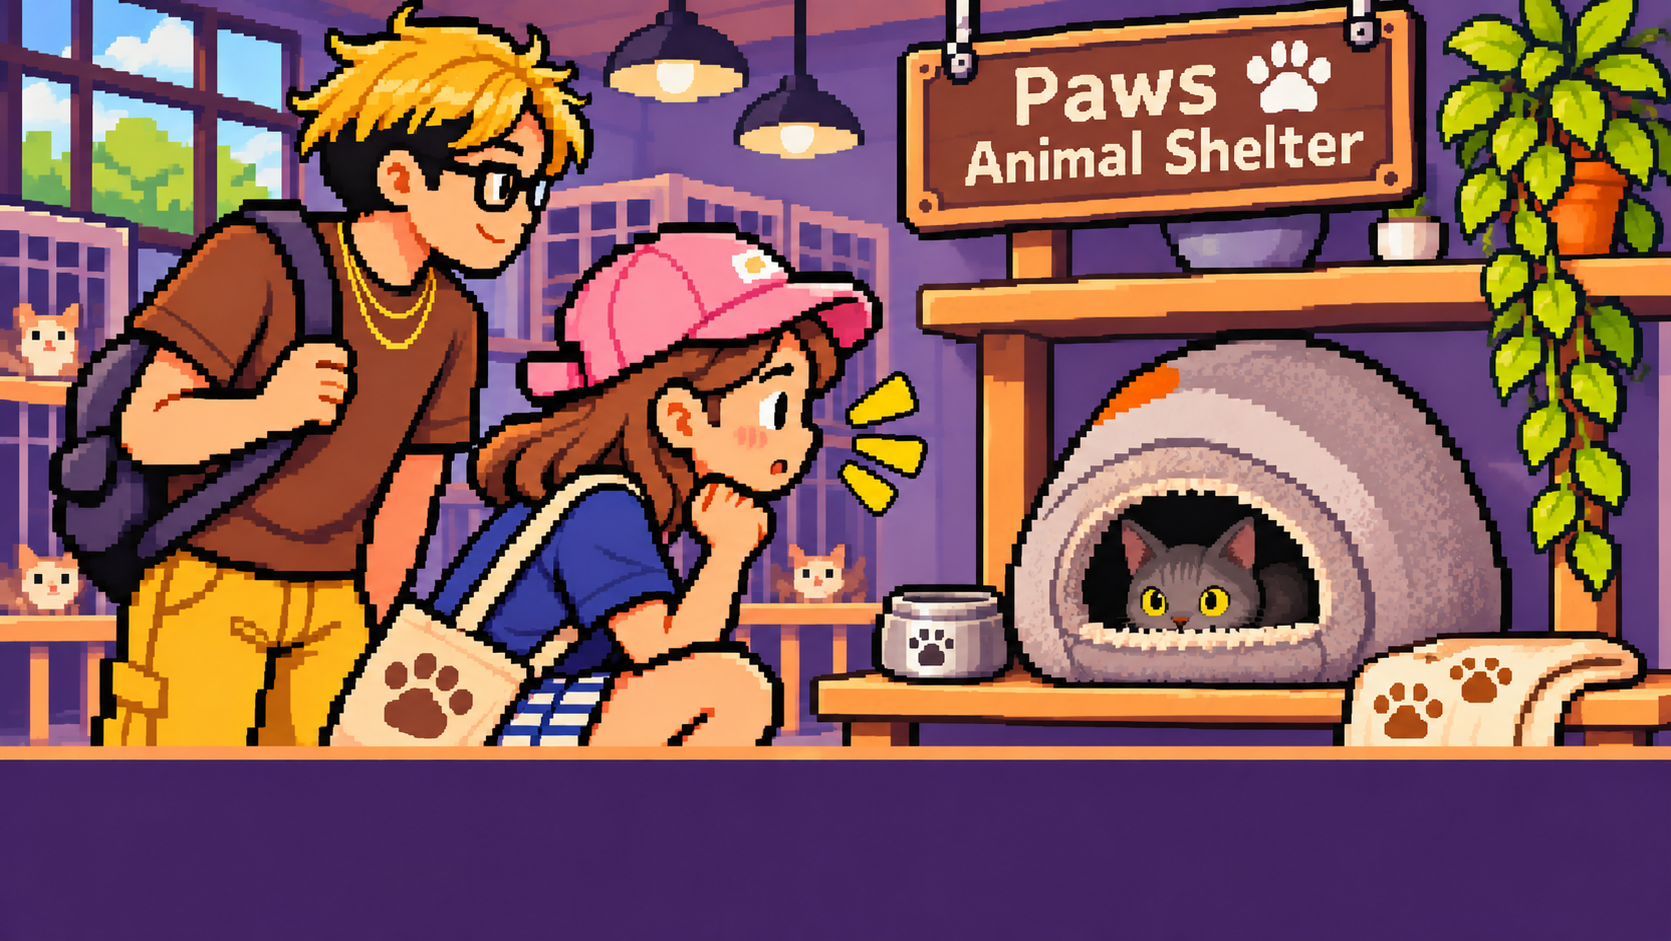
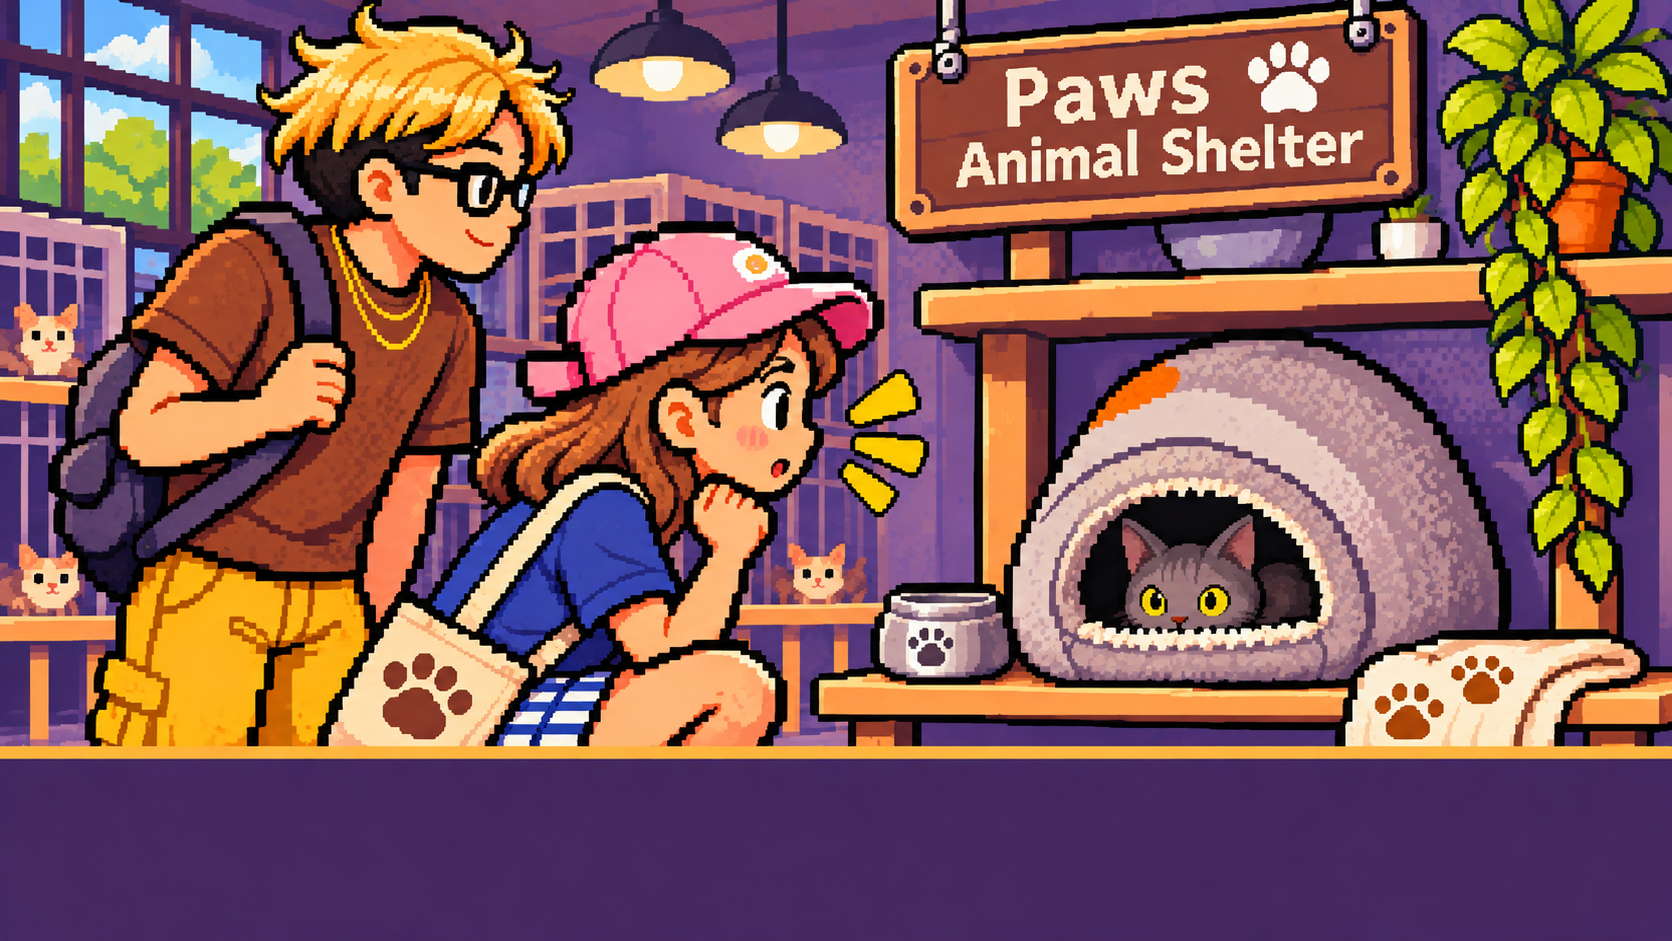
update

Changed region(s): [[0.0, 0.0, 1.0, 0.8321], [0.1556, 0.5547, 0.2178, 0.5855], [0.778, 0.4315, 0.8091, 0.4623]]

diff --git a/app.js b/app.js
@@ -220,10 +220,12 @@
       `<polygon class="hex-shape" points="${shape}"/>${labels}</svg>`;
   }
   (CFG.characters || []).forEach((c, i) => {
-    const card = document.createElement("button");
-    card.type = "button";
+    // (a clickable box rather than a <button>, so the Instagram link can sit inside it)
+    const card = document.createElement("div");
     card.className = "char panel parchment";
+    card.setAttribute("role", "button"); card.tabIndex = 0;
     card.setAttribute("aria-pressed", "false");
+    const ig = String(c.ig || "").trim().replace(/^@/, "").replace(/^https?:\/\/(www\.)?instagram\.com\//i, "").replace(/\/.*$/, "");
     const stars = (n) => `<span class="stars" aria-label="${n} out of 5">${"★".repeat(n)}<i>${"★".repeat(5 - n)}</i></span>`;
     card.innerHTML = `
       <span class="char-tag">${esc(c.tag || "P" + (i + 1))}</span>
@@ -237,13 +239,19 @@
       <dl class="char-info">
         <dt>Origin</dt><dd>${esc(c.origin)}</dd>
         <dt>personality</dt><dd>${esc(c.skill)}</dd>
+        ${ig ? `<dt>IG</dt><dd><a class="char-ig" href="https://www.instagram.com/${encodeURIComponent(ig)}/" target="_blank" rel="noopener" data-no-i18n>@${esc(ig).replace(/_/g, "_<wbr>")} ↗</a></dd>` : ""}
       </dl>
       ${Array.isArray(c.stats) ? `<ul class="char-stats">${c.stats.map(([k, n]) => `<li><span>${esc(k)}</span>${stars(n)}</li>`).join("")}</ul>` : hexStats(c.stats)}
       <span class="char-play">▶ See the story as ${esc(c.name)}</span>
       <span class="char-select">♥ TELLING THE STORY ♥</span>`;
-    card.addEventListener("click", () => {
+    card.addEventListener("click", (e) => {
+      if (e.target.closest("a")) return; // the IG link opens Instagram instead
       sfx.select();
       story.view(c.name, true);
+    });
+    card.addEventListener("keydown", (e) => {
+      if (e.target !== card || (e.key !== "Enter" && e.key !== " ")) return;
+      e.preventDefault(); card.click();
     });
     party.appendChild(card);
     if (i === 0 && CFG.characters.length === 2) {
@@ -512,7 +520,7 @@
     });
     window.addEventListener("keydown", (e) => {
       if ($("#screen-story").hidden || !pop.hidden) return;
-      if (e.target !== dlg && e.target.closest && e.target.closest("button, a, input, textarea, select")) return;
+      if (e.target !== dlg && e.target.closest && e.target.closest("button, a, input, textarea, select, [role=button]")) return;
       if (e.key === " " || e.key === "Enter" || e.key === "ArrowRight") { e.preventDefault(); dlg.click(); }
       if (e.key === "ArrowLeft" && !backBtn.hidden) { e.preventDefault(); backBtn.click(); }
     });
@@ -525,43 +533,60 @@
   // sends them back so every visitor sees them. Without it (testing), they're kept in this browser only.
   const notes = (() => {
     const API = CFG.messagesEndpoint || CFG.rsvpEndpoint;
-    const MINE = "notes-mine";
-    let data = null, loading = null;
+    // Everything is read fresh from the Google Sheet each time (no copies kept in the browser).
+    try { localStorage.removeItem("notes-mine"); } catch (e) {} // (an older version kept copies here)
+    let data = null, loading = null, status = API ? "loading" : "offline";
     const subs = [];
     const emit = () => subs.forEach((f) => f(data));
+    const wait = (ms) => new Promise((r) => setTimeout(r, ms));
     function load() {
-      if (loading) return loading;
+      if (loading) return loading; // one request at a time
       loading = (async () => {
-        let d = { messages: [], comments: [] };
-        if (API) {
-          try {
-            const j = await (await fetch(API + (API.includes("?") ? "&" : "?") + "action=notes", { cache: "no-store" })).json();
-            if (j && j.ok) d = { messages: j.messages || [], comments: j.comments || [] };
-          } catch (e) {}
+        try {
+          if (!API) throw Error("offline");
+          const res = await fetch(API + (API.includes("?") ? "&" : "?") + "action=notes&t=" + Date.now(), { cache: "no-store" });
+          const j = await res.json();
+          if (!j || !j.ok) throw Error("bad reply");
+          data = { messages: j.messages || [], comments: j.comments || [] }; status = "ok";
+        } catch (e) {
+          status = API ? "error" : "offline";
+          if (!data) data = { messages: [], comments: [] };
         }
-        // my own posts: always shown to me (in preview mode they live only here; online, until the sheet has them)
-        const keep = API ? 60 * 60 * 1000 : Infinity;
-        const mine = store.get(MINE, []).filter((x) => Date.now() - Date.parse(x.time) < keep);
-        store.set(MINE, mine);
-        for (const x of mine) {
-          const list = x.kind === "comment" ? d.comments : d.messages;
-          if (!list.some((y) => y.id === x.id)) list.push(x);
-        }
-        data = d; emit(); return d;
-      })();
+        emit(); return data;
+      })().finally(() => { loading = null; });
       return loading;
     }
+    // send to the sheet, then read the sheet back: it only counts as sent once it's really there
     async function post(kind, fields) {
-      const x = { kind, id: Date.now().toString(36) + Math.random().toString(36).slice(2, 8), time: new Date().toISOString(), ...fields };
-      if (API) await fetch(API, { method: "POST", mode: "no-cors", headers: { "Content-Type": "text/plain;charset=utf-8" }, body: JSON.stringify(x) });
-      store.set(MINE, [...store.get(MINE, []), x].slice(-100));
-      await load();
-      const list = kind === "comment" ? data.comments : data.messages;
-      if (!list.some((y) => y.id === x.id)) list.push(x);
-      emit();
+      if (!API) throw Error("offline");
+      const x = { kind, id: Date.now().toString(36) + Math.random().toString(36).slice(2, 8), ...fields };
+      await fetch(API, { method: "POST", mode: "no-cors", headers: { "Content-Type": "text/plain;charset=utf-8" }, body: JSON.stringify(x) });
+      if (loading) await loading; // a read that started before the post doesn't count
+      for (const pause of [0, 1500, 3000]) {
+        if (pause) await wait(pause);
+        await load();
+        const list = kind === "comment" ? data.comments : data.messages;
+        if (status === "ok" && list.some((y) => y.id === x.id)) return;
+      }
+      throw Error("not confirmed");
     }
     const locale = () => ({ "zh-Hant": "zh-TW", "zh-Hans": "zh-CN" }[window.I18N && I18N.lang] || "en-US");
     const date = (iso) => { const d = new Date(iso); return isNaN(d) ? "" : d.toLocaleDateString(locale(), { year: "numeric", month: "short", day: "numeric" }); };
+    // pop-up while a message / comment is being sent: "Sending…" until it's done, then "Sent! ✨"
+    const sending = (() => {
+      const el = document.createElement("div");
+      el.className = "send-pop"; el.hidden = true;
+      el.setAttribute("role", "status"); el.setAttribute("aria-live", "polite");
+      el.innerHTML = `<div class="send-box parchment"><div class="send-icon"></div><p class="send-msg"></p></div>`;
+      document.body.appendChild(el);
+      return {
+        show(msg, icon, busy = false) {
+          $(".send-icon", el).textContent = icon; $(".send-msg", el).textContent = msg;
+          el.classList.toggle("busy", busy); el.hidden = false;
+        },
+        hide() { el.hidden = true; },
+      };
+    })();
     // the name + message form (board and photo comments share it)
     let last = 0;
     function wire(form, kind, extra, max) {
@@ -575,17 +600,25 @@
         err.textContent = !name ? "Please enter your name." : !text ? "Please write a message." : Date.now() - last < 15000 ? "Slow down a little — try again in a few seconds!" : "";
         if (err.textContent) { sfx.error(); return; }
         btn.disabled = true;
+        sending.show("Sending…", "🕊", true);
+        const shown = Date.now();
         try {
           await post(kind, { name, text, website: form.elements.website.value, ...extra() });
+          await wait(Math.max(0, 700 - (Date.now() - shown))); // stay up long enough to read
           last = Date.now(); store.set("guest-name", name);
           textIn.value = ""; if (count) count.textContent = `0/${max}`;
           sfx.select();
-        } catch (ex) { err.textContent = "Hmm, the carrier pigeon got lost. Please try again!"; sfx.error(); }
-        finally { btn.disabled = false; }
+          sending.show("Sent! ✨", "💌"); await wait(1000);
+        } catch (ex) {
+          await wait(Math.max(0, 700 - (Date.now() - shown)));
+          const msg = ex.message === "offline" ? "The Forum isn't open yet — check back soon!" : "Hmm, the carrier pigeon got lost. Please try again!";
+          err.textContent = msg; sfx.error();
+          sending.show(msg, "😿"); await wait(2200);
+        } finally { sending.hide(); btn.disabled = false; }
       });
     }
     $$("[data-notes-local]").forEach((x) => (x.hidden = !!API));
-    return { load, post, wire, date, on: (f) => subs.push(f), get data() { return data; } };
+    return { load, post, wire, date, on: (f) => subs.push(f), get data() { return data; }, get status() { return status; } };
   })();
 
   /* ================= MESSAGE BOARD ================= */
@@ -594,7 +627,9 @@
     const tilt = (i) => [-2, 1.5, -1, 2, -1.5, 1][i % 6];
     const colors = ["#fff3dc", "#ffe1ea", "#e3f3ff", "#eaf7dc", "#fff0c4"];
     function render(d) {
-      if (!d) { wall.innerHTML = `<p class="note-empty">Loading messages…</p>`; return; }
+      if (!d || notes.status === "loading") { wall.innerHTML = `<p class="note-empty">Loading messages…</p>`; return; }
+      if (notes.status === "offline") { wall.innerHTML = `<p class="note-empty">The Forum isn't open yet — check back soon!</p>`; return; }
+      if (notes.status === "error" && !d.messages.length) { wall.innerHTML = `<p class="note-empty">Couldn't load the messages right now. Please try again later.</p>`; return; }
       const list = [...d.messages].sort((a, b) => Date.parse(b.time) - Date.parse(a.time));
       wall.innerHTML = list.length ? list.map((m, i) =>
         `<article class="note-card" style="--tilt:${tilt(i)}deg;--paper:${colors[i % colors.length]}">` +
@@ -750,7 +785,9 @@
     function renderComments() {
       if (lb.hidden || !photos[cur]) return;
       const list = commentsOf(photos[cur].key);
-      $("#lbList").innerHTML = !notes.data ? `<li class="lb-empty">Loading comments…</li>`
+      $("#lbList").innerHTML = !notes.data || notes.status === "loading" ? `<li class="lb-empty">Loading comments…</li>`
+        : notes.status === "offline" ? `<li class="lb-empty">Comments aren't open yet — check back soon!</li>`
+        : notes.status === "error" && !commentsOf(photos[cur].key).length ? `<li class="lb-empty">Couldn't load the comments right now.</li>`
         : list.length ? list.map((c) => `<li><b data-no-i18n>${esc(c.name)}</b><time data-no-i18n>${esc(notes.date(c.time))}</time>` +
           `<p data-no-i18n>${esc(c.text)}</p></li>`).join("")
         : `<li class="lb-empty">No comments yet — say something nice! 💬</li>`;

diff --git a/i18n.js b/i18n.js
@@ -83,6 +83,12 @@
     ["Origin", "出身", "出身"],
     ["Special Skill", "特殊技能", "特殊技能"],
     ["personality", "個性", "个性"],
+    ["Yilan, Taiwan", "台灣宜蘭", "台湾宜兰"],
+    ["Chunhua, China", "中國淳化", "中国淳化"],
+    ["State College, USA", "美國 State College", "美国 State College"],
+    ["Spontaneous", "隨性", "随性"],
+    ["Boss", "老大", "老大"],
+    ["Having affair with DK and Square", "跟 DK 和 Square 搞曖昧", "跟 DK 和 Square 搞暧昧"],
     ["♥ TELLING THE STORY ♥", "♥ 正在講故事 ♥", "♥ 正在讲故事 ♥"],
     ["Chemist", "化學家", "化学家"],
     ["Computer Scientist", "電腦科學家", "计算机科学家"],
@@ -370,7 +376,11 @@
     ["Your name", "你的名字", "你的名字"],
     ["Your message", "你的留言", "你的留言"],
     ["📌 Pin it!", "📌 貼上去！", "📌 贴上去！"],
-    ["Preview mode: messages are only saved in this browser until the Google Sheet is connected.", "預覽模式：連上 Google 試算表之前，留言只會存在這個瀏覽器裡。", "预览模式：连上 Google 表格之前，留言只会保存在这个浏览器里。"],
+    ["Preview mode: the Forum isn't connected to the Google Sheet yet (config.js → rsvpEndpoint).", "預覽模式：留言板還沒連上 Google 試算表（config.js → rsvpEndpoint）。", "预览模式：留言板还没连上 Google 表格（config.js → rsvpEndpoint）。"],
+    ["The Forum isn't open yet — check back soon!", "留言板還沒開放——晚點再來看看！", "留言板还没开放——晚点再来看看！"],
+    ["Couldn't load the messages right now. Please try again later.", "現在無法載入留言，請稍後再試。", "现在无法加载留言，请稍后再试。"],
+    ["Comments aren't open yet — check back soon!", "留言還沒開放——晚點再來看看！", "留言还没开放——晚点再来看看！"],
+    ["Couldn't load the comments right now.", "現在無法載入留言。", "现在无法加载留言。"],
     ["Loading messages…", "留言載入中…", "留言加载中…"],
     ["No messages yet — be the first to leave one! 💌", "還沒有留言——來當第一個吧！💌", "还没有留言——来当第一个吧！💌"],
     ["Comments", "留言", "留言"],
@@ -381,6 +391,7 @@
     ["Loading comments…", "留言載入中…", "留言加载中…"],
     ["No comments yet — say something nice! 💬", "還沒有留言——說點好話吧！💬", "还没有留言——说点好话吧！💬"],
     ["Please write a message.", "請寫點留言。", "请写点留言。"],
+    ["Sent! ✨", "送出成功！✨", "发送成功！✨"],
     ["Slow down a little — try again in a few seconds!", "慢一點——過幾秒再試一次！", "慢一点——过几秒再试一次！"],
   ];
 

diff --git a/config.js b/config.js
@@ -14,21 +14,22 @@ window.WEDDING_CONFIG = {
   // ---- Character cards (top of "Our Story") ----
   // stats = the six RPG stats on the hexagon chart, each 1–10:
   //   STR strength · DEX dexterity · CON constitution · INT intelligence · WIS wisdom · CHA charisma
+  // ig = Instagram handle (e.g. "leia_the_little_princess"); leave "" to hide the IG line.
   // Clicking a card retells the SAME story from that character's point of view.
   characters: [
     {
       name: "Chin-Yi", emoji: "👩", photo: "assets/chinyi.png", tag: "P1",
-      className: "Chemist", origin: "Yilan, Taiwan", skill: "Spontaneous",
+      className: "Chemist", origin: "Yilan, Taiwan", skill: "Spontaneous", ig: "pinkpig0720",
       stats: { STR: 7, DEX: 7, CON: 9, INT: 9, WIS: 6, CHA: 10 },
     },
     {
       name: "Sixuan", emoji: "👨", photo: "assets/sixuan.png", tag: "P2",
-      className: "Computer Scientist", origin: "Chunhua, China", skill: "Overthinking",
+      className: "Computer Scientist", origin: "Chunhua, China", skill: "Overthinking", ig: "nickdang1019",
       stats: { STR: 10, DEX: 7, CON: 9, INT: 9, WIS: 6, CHA: 9 },
     },
     {
       name: "Leia", emoji: "🐱", photo: "assets/leia.png", tag: "P3", nameIcon: "🐾",
-      className: "Boss", origin: "State College, USA", skill: "Having affair with DK and Square",
+      className: "Boss", origin: "State College, USA", skill: "Having affair with DK and Square", ig: "leia_the_little_princess",
       stats: { STR: 5, DEX: 10, CON: 6, INT: 3, WIS: 10, CHA: 10 },
     },
   ],

diff --git a/style.css b/style.css
@@ -875,3 +875,18 @@ html:lang(zh-Hans) { --font: "Pixelify Sans", "VT323", "Microsoft YaHei", "PingF
 .hex-stat .hex-v { fill: var(--pink-dark); font-size: 15px; }
 .hex-stat { cursor: help; }
 .hex-stat:hover text { fill: var(--pink-dark); }
+
+/* ===== "Sending…" pop-up for Forum messages and photo comments ===== */
+.send-pop { position: fixed; inset: 0; z-index: 300; display: grid; place-items: center; background: rgba(30,16,8,.45); }
+.send-pop[hidden] { display: none; }
+.send-box { min-width: 240px; max-width: min(360px, calc(100vw - 40px)); padding: 22px 26px 18px; text-align: center; animation: pop-in .18s steps(3); }
+.send-icon { font-size: 46px; line-height: 1; }
+.send-pop.busy .send-icon { animation: send-fly .9s steps(4) infinite; }
+.send-msg { margin: 12px 0 0; font: 600 20px var(--font); color: var(--ink); }
+@keyframes send-fly { 0%, 100% { transform: translate(-6px, 2px); } 50% { transform: translate(6px, -6px); } }
+@keyframes pop-in { from { transform: scale(.85); opacity: 0; } }
+
+/* ===== character cards: Instagram link ===== */
+.char:focus-visible { outline: 3px dashed var(--pink-dark); outline-offset: 6px; }
+.char-ig { color: var(--pink-dark); font-weight: 700; text-decoration: none; overflow-wrap: break-word; cursor: var(--cur-click); }
+.char-ig:hover, .char-ig:focus-visible { text-decoration: underline; }

diff --git a/index.html b/index.html
@@ -171,7 +171,7 @@
           <button type="submit" class="btn btn-pink">📌 Pin it!</button>
         </div>
       </form>
-      <p class="hint" data-notes-local hidden>Preview mode: messages are only saved in this browser until the Google Sheet is connected.</p>
+      <p class="hint" data-notes-local hidden>Preview mode: the Forum isn't connected to the Google Sheet yet (config.js → rsvpEndpoint).</p>
       <div class="note-wall" id="noteWall"></div>
     </section>
 
